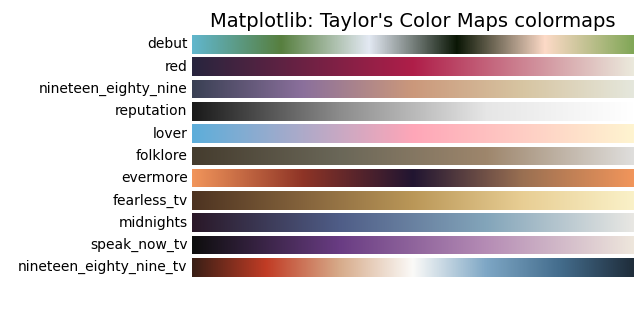
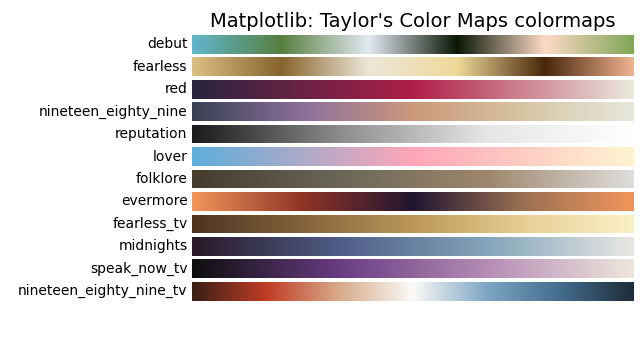
Added Fearless

diff --git a/swiftascmaps/__init__.py b/swiftascmaps/__init__.py
@@ -38,6 +38,7 @@ from swiftascmaps.make_cmap import make_custom_cmap
 from swiftascmaps.__version__ import __version__
 
 debut, debut_r = make_custom_cmap("debut", colors.debut)
+fearless, fearless_r = make_custom_cmap("fearless", colors.fearless)
 red, red_r = make_custom_cmap("red", colors.red)
 nineteen_eighty_nine, nineteen_eighty_nine_r = make_custom_cmap(
     "nineteen_eighty_nine", colors.nineteen_eighty_nine

diff --git a/test_maps.py b/test_maps.py
@@ -37,6 +37,7 @@ def plot_color_gradients(category, cmap_list):
 plot_color_gradients("Matplotlib: Taylor's Color Maps",
                      [
     "swift.debut",
+    "swift.fearless",
     "swift.red",
     "swift.nineteen_eighty_nine",
     "swift.reputation",

diff --git a/swiftascmaps/colors.py b/swiftascmaps/colors.py
@@ -13,6 +13,15 @@ debut = hex_to_rgb([
     "#81a757"
 ])
 
+fearless = hex_to_rgb([
+    "#DCBE83",
+    "#88642C",
+    "#EDE7D9",
+    "#EFD998",
+    "#49260A",
+    "#EFB391"
+])
+
 red = [
     [40, 37, 62],
     [175, 30, 73],

diff --git a/README.md b/README.md
@@ -7,6 +7,7 @@ Quick start: `pip install swiftascmaps`
 Includes color maps based on the following albums:
 
 + Debut (`debut`, `debut_r`) (copied from [taloRswift](https://github.com/asteves/tayloRswift))
++ Fearless (`fearless`, `fearless_r`) (copied from [taloRswift](https://github.com/asteves/tayloRswift))
 + Red (`red`, `red_r`)
 + 1989 (`nineteen_eighty_nine`, `nineteen_eighty_nine_r`)
 + Reputation (`reputation`, `reputation_r`)
